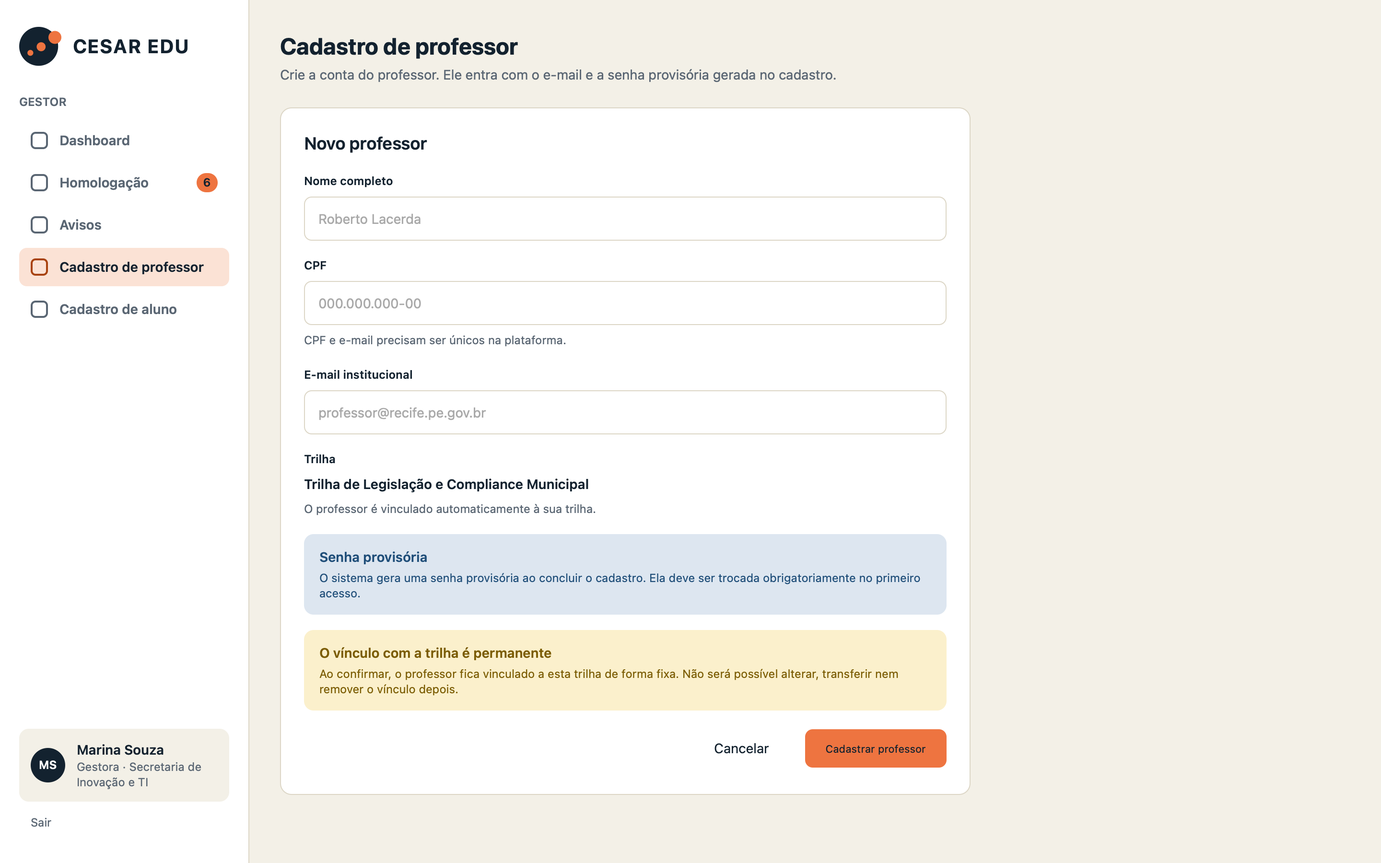
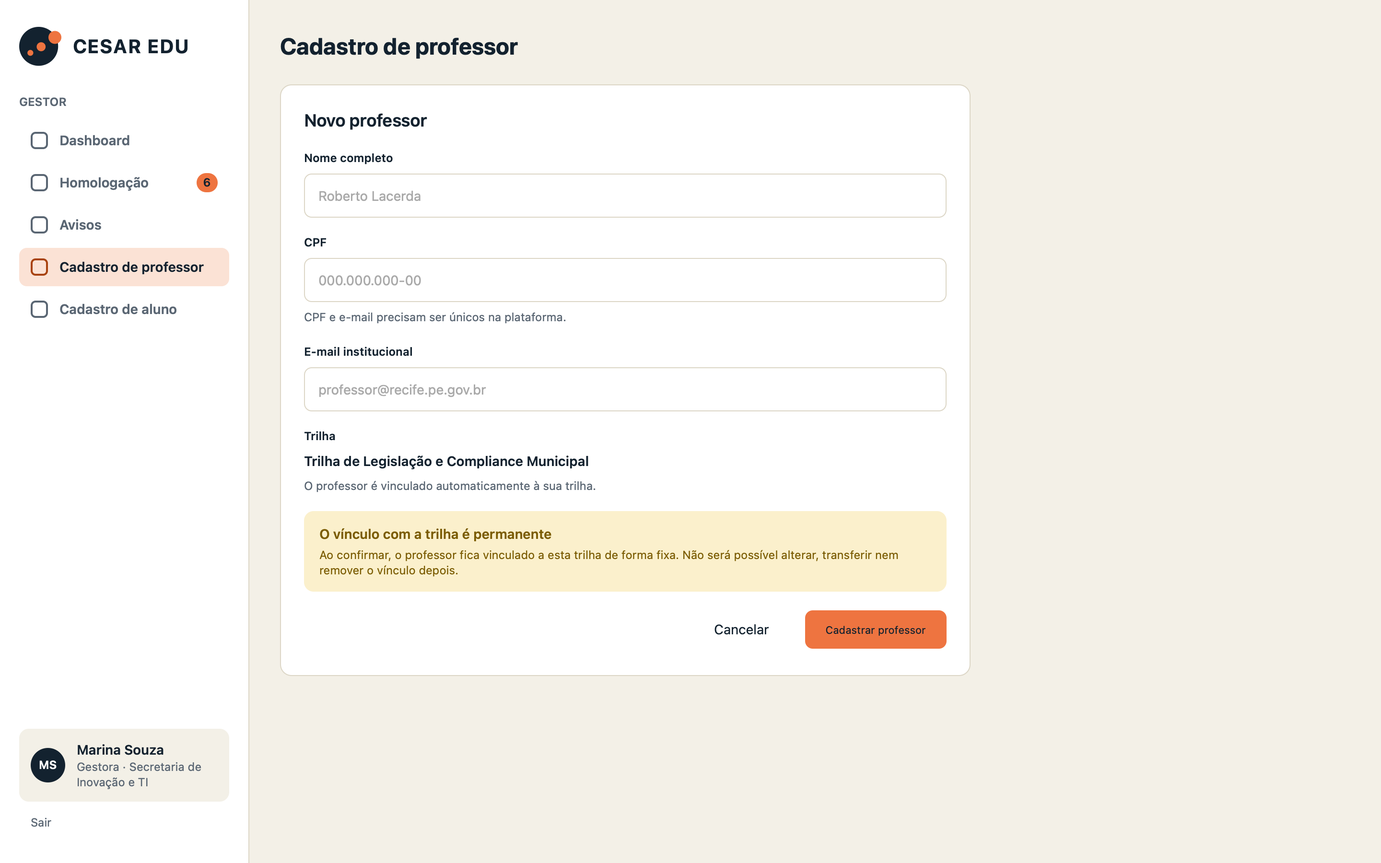
feat: ajustar slides para apresentacao

Changed region(s): [[0.2188, 0.1244, 0.6875, 0.9022], [0.2188, 0.0622, 0.5938, 0.0933]]

diff --git a/slides/apresentacao.html b/slides/apresentacao.html
@@ -115,7 +115,7 @@
   .col{top:50px}
   .col h3{padding-bottom:18px}
   .col ul{margin-top:18px}
-  .col.e ul.two{columns:2;column-gap:16px;font-size:16px;line-height:29px;padding-left:18px}
+  .col.e ul.many{font-size:20px;line-height:32px}
   .col.e.wide{left:100px;width:470px}
   .col.r.tight{left:660px;width:540px}
   .col.r li{margin-bottom:11px}
@@ -133,6 +133,14 @@
   .cont .col.r li span{font-size:22px;line-height:27px}
   .cont .col.r li small{font-size:16px;line-height:21px}
   .cont .col h3{font-size:0;padding:0;border:0;display:none}
+  .sub .pill{font-size:19px;line-height:23px;text-align:center;padding:0 26px}
+  .core .logo-core{background:var(--creme);flex-direction:column;gap:14px;font-size:0}
+  .core .logo-core svg{width:190px}
+  .core .logo-core span{font-size:30px;font-weight:800;letter-spacing:.04em;color:var(--navy);line-height:1}
+  .col.r.compact li{margin-bottom:9px}
+  .col.r.compact li span{font-size:19px;line-height:24px}
+  .col.r.compact li small{font-size:14.5px;line-height:19px;margin-top:1px}
+  .col.r.compact li em{margin-top:2px}
   .cap b{color:var(--navy)}
   .cont .col.r.c0{left:130px;width:1040px;top:56px}
   .cont .col.r.c0 li{margin-bottom:34px;gap:18px}
@@ -162,30 +170,30 @@
   </section>
 <section class="slide light sub">
     <h2>Subdomínios</h2>
-    <div class="pill l" style="top:249px">Cadastros e Acesso</div>
-    <div class="pill l" style="top:371px">Cursos e Conteúdo</div>
-    <div class="pill l" style="top:511px">Provas e Avaliações</div>
-    <div class="core"><div>CESAR<br>EDU</div></div>
-    <div class="pill r" style="top:249px">Aprendizagem do Servidor</div>
-    <div class="pill r" style="top:371px">Comunicação</div>
-    <div class="pill r" style="top:511px">Gestão e Indicadores</div>
+    <div class="pill l" style="top:249px">1. Gerenciamento e Permissões da Plataforma</div>
+    <div class="pill l" style="top:371px">2. Gestão de Cursos</div>
+    <div class="pill l" style="top:511px">3. Provas e Avaliações</div>
+    <div class="core"><div class="logo-core"><svg viewBox="0 0 600 555"><circle cx="277" cy="277" r="277" fill="#13222F"/><circle cx="508" cy="150" r="92" fill="#EE7440"/><circle cx="312" cy="283" r="64" fill="#EE7440"/><circle cx="159" cy="370" r="42" fill="#EE7440"/></svg><span>CESAR EDU</span></div></div>
+    <div class="pill r" style="top:249px">4. Aprendizagem Contínua do Servidor (Estudante)</div>
+    <div class="pill r" style="top:371px">5. Comunicação Assíncrona</div>
+    <div class="pill r" style="top:511px">6. Dashboard de Gestão</div>
   </section>
 <section class="slide dark div" data-f="1">
   <div class="num">01</div>
-  <div class="box"><h2>Cadastro de professores da trilha</h2>
+  <div class="box"><h2>Cadastro de alunos e professores da trilha</h2>
     <div style="margin-top:30px"><span class="chip perfil" style="margin-top:0">Gestor</span><span class="chip facil" style="margin-top:0">Fácil</span></div>
     <div class="own">Responsável: <b>Eric Albuquerque</b></div></div>
 </section>
 <section class="slide story" data-f="1">
-  <div class="top" style="font-size:29px"><b>Como</b> <span>gestor da trilha</span><br><b>Quero</b> <span>cadastrar professores e vinculá-los à minha trilha</span><br><b>Para</b> <span>que possam criar cursos com acesso seguro desde o 1º login</span></div>
+  <div class="top" style="font-size:32px"><b>Como</b> <span>gestor da trilha</span><br><b>Quero</b> <span>cadastrar alunos e professores na minha trilha</span><br><b>Para</b> <span>que cada um acesse a plataforma e a trilha certa</span></div>
   <div class="bot">
-    <div class="col e"><h3><i></i>Envolve</h3><ul><li>Gestor</li><li>Professor</li><li>TrilhaDeAprendizagem</li><li>VinculoProfessorTrilha</li><li>Usuario</li></ul></div>
-    <div class="col r"><h3><i></i>Regras de Negócio</h3><ul><li><em class="baixa">BAIXA</em><span>RN 1 · Permissão exclusiva do gestor da trilha<small>Somente gestores ativos cadastram e vinculam professores à sua trilha.</small></span></li><li><em class="baixa">BAIXA</em><span>RN 2 · Unicidade de CPF e e-mail<small>Bloqueia cadastro com CPF ou e-mail já existente em qualquer perfil.</small></span></li><li><em class="baixa">BAIXA</em><span>RN 3 · Credencial provisória e primeiro acesso<small>Gera senha provisória e exige uma nova senha no primeiro login.</small></span></li><li><em class="media">MÉDIA</em><span>RN 4 · Atribuição fixa e irrevogável à trilha<small>O vínculo professor–trilha é permanente: não pode ser alterado nem removido.</small></span></li></ul></div>
+    <div class="col e"><h3><i></i>Envolve</h3><ul><li>Gestor</li><li>Professor</li><li>TrilhaDeAprendizagem</li><li>VinculoProfessorTrilha</li><li>Servidor/Aluno</li></ul></div>
+    <div class="col r"><h3><i></i>Regras de Negócio</h3><ul><li><em class="baixa">BAIXA</em><span>RN 1 · Permissão exclusiva do gestor da trilha<small>Somente gestores ativos cadastram e vinculam professores à sua trilha.</small></span></li><li><em class="baixa">BAIXA</em><span>RN 2 · Unicidade de CPF e e-mail<small>Bloqueia cadastro com CPF ou e-mail já existente em qualquer perfil.</small></span></li><li><em class="media">MÉDIA</em><span>RN 3 · Atribuição fixa e irrevogável à trilha<small>O vínculo professor–trilha é permanente: não pode ser alterado nem removido.</small></span></li></ul></div>
   </div>
 </section>
-<section class="slide shot"><div class="frame f1"><img src="img/e2-form.png" alt="Gestor · Cadastro de professor: nome, CPF, e-mail e trilha com vínculo permanente (RN 1, RN 4)"></div><div class="cap">Gestor · Cadastro de professor: nome, CPF, e-mail e trilha com vínculo permanente (RN 1, RN 4)</div></section>
-<section class="slide shot"><div class="lab" style="left:30px">E-mail ou CPF já cadastrado é bloqueado (RN 2)</div><div class="lab" style="left:650px">Conta criada com senha provisória (RN 3)</div><div class="frame f2a"><img src="img/e2-erro.png" alt="E-mail ou CPF já cadastrado é bloqueado (RN 2)"></div><div class="frame f2b"><img src="img/e2-ok.png" alt="Conta criada com senha provisória (RN 3)"></div></section>
-<section class="slide shot"><div class="frame f1"><img src="img/e2-aluno.png" alt="Tela complementar · Cadastro de aluno (servidor) pelo gestor, na mesma lógica de conta provisória"></div><div class="cap">Tela complementar · Cadastro de aluno (servidor) pelo gestor, na mesma lógica de conta provisória</div></section>
+<section class="slide shot"><div class="frame f1"><img src="img/e2-form.png" alt="Gestor · Cadastro de professor: nome, CPF, e-mail e trilha com vínculo permanente (RN 1, RN 3)"></div><div class="cap">Gestor · Cadastro de professor: nome, CPF, e-mail e trilha com vínculo permanente (RN 1, RN 3)</div></section>
+<section class="slide shot"><div class="lab" style="left:30px">E-mail ou CPF já cadastrado é bloqueado (RN 2)</div><div class="lab" style="left:650px">Conta criada e vinculada de forma permanente à trilha (RN 3)</div><div class="frame f2a"><img src="img/e2-erro.png" alt="E-mail ou CPF já cadastrado é bloqueado (RN 2)"></div><div class="frame f2b"><img src="img/e2-ok.png" alt="Conta criada e vinculada de forma permanente à trilha (RN 3)"></div></section>
+<section class="slide shot"><div class="frame f1"><img src="img/e2-aluno.png" alt="Cadastro de aluno (servidor) pelo gestor, na mesma trilha"></div><div class="cap">Cadastro de aluno (servidor) pelo gestor, na mesma trilha</div></section>
 <section class="slide dark div" data-f="2">
   <div class="num">02</div>
   <div class="box"><h2>Avisos e notificações do gestor</h2>
@@ -196,15 +204,12 @@
   <div class="top" style="font-size:32px"><b>Como</b> <span>gestor da trilha</span><br><b>Quero</b> <span>publicar e gerenciar avisos para os alunos da trilha</span><br><b>Para</b> <span>manter a turma informada sobre prazos e orientações</span></div>
   <div class="bot">
     <div class="col e"><h3><i></i>Envolve</h3><ul><li>Gestor</li><li>Aluno</li><li>TrilhaDeAprendizagem</li><li>Notificacao</li></ul></div>
-    <div class="col r"><h3><i></i>Regras de Negócio</h3><ul><li><em class="baixa">BAIXA</em><span>RN 1 · Gestão restrita ao gestor da trilha<small>Só o gestor responsável cria, edita ou exclui avisos da trilha.</small></span></li><li><em class="baixa">BAIXA</em><span>RN 2 · Validação de conteúdo não vazio<small>Aviso em branco ou só com espaços não é publicado (máx. 2.000 caracteres).</small></span></li><li><em class="media">MÉDIA</em><span>RN 3 · Feed restrito aos alunos da trilha<small>Apenas servidores com vínculo ativo na trilha veem o aviso.</small></span></li></ul></div>
+    <div class="col r compact"><h3><i></i>Regras de Negócio</h3><ul><li><em class="baixa">BAIXA</em><span>RN 1 · Gestão restrita ao gestor da trilha<small>Só o gestor responsável cria, edita ou exclui avisos da trilha.</small></span></li><li><em class="baixa">BAIXA</em><span>RN 2 · Validação de conteúdo não vazio<small>Aviso em branco ou só com espaços não é publicado (máx. 2.000 caracteres).</small></span></li><li><em class="media">MÉDIA</em><span>RN 3 · Feed restrito aos alunos da trilha<small>Apenas servidores com vínculo ativo na trilha veem o aviso.</small></span></li><li><em class="media">MÉDIA</em><span>RN 4 · Edição pelo autor e sinal de &quot;editado&quot;<small>Ao editar, o feed é atualizado e exibe &quot;editado&quot; com a data.</small></span></li><li><em class="baixa">BAIXA</em><span>RN 5 · Exclusão de mensagem do feed<small>Excluir remove o aviso da listagem dos alunos.</small></span></li></ul></div>
   </div>
-</section>
-<section class="slide cont" data-f="2">
-  <div class="top"><h2>Regras de Negócio · continuação</h2><p>02 · Avisos e notificações do gestor</p></div>
-  <div class="bot"><div class="col r c0"><ul><li><em class="media">MÉDIA</em><span>RN 4 · Edição pelo autor e sinal de &quot;editado&quot;<small>Ao editar, o feed é atualizado e exibe &quot;editado&quot; com a data.</small></span></li><li><em class="baixa">BAIXA</em><span>RN 5 · Exclusão de mensagem do feed<small>Excluir remove o aviso da listagem dos alunos.</small></span></li></ul></div></div>
 </section>
 <section class="slide shot"><div class="frame f1"><img src="img/m3-feed.png" alt="Gestor · Feed de avisos: criar aviso (RN 1, RN 2) e feed da trilha com selo &quot;editado&quot; (RN 4)"></div><div class="cap">Gestor · Feed de avisos: criar aviso (RN 1, RN 2) e feed da trilha com selo &quot;editado&quot; (RN 4)</div></section>
 <section class="slide shot"><div class="lab" style="left:30px">Editar aviso (RN 4)</div><div class="lab" style="left:650px">Excluir aviso do feed (RN 5)</div><div class="frame f2a"><img src="img/m3-editar.png" alt="Editar aviso (RN 4)"></div><div class="frame f2b"><img src="img/m3-excluir.png" alt="Excluir aviso do feed (RN 5)"></div></section>
+<section class="slide shot"><div class="frame f1"><img src="img/m3-servidor.png" alt="Servidor · Avisos do gestor da trilha, com selo &quot;editado&quot; (RN 3 e RN 4)"></div><div class="cap">Servidor · Avisos do gestor da trilha, com selo &quot;editado&quot; (RN 3 e RN 4)</div></section>
 <section class="slide dark div" data-f="3">
   <div class="num">03</div>
   <div class="box"><h2>Gerenciamento de cursos</h2>
@@ -215,7 +220,7 @@
   <div class="top" style="font-size:32px"><b>Como</b> <span>professor</span><br><b>Quero</b> <span>criar, editar e arquivar os meus cursos</span><br><b>Para</b> <span>organizar o conteúdo que os servidores vão estudar</span></div>
   <div class="bot">
     <div class="col e"><h3><i></i>Envolve</h3><ul><li>Professor</li><li>Servidor</li><li>Curso</li></ul></div>
-    <div class="col r"><h3><i></i>Regras de Negócio</h3><ul><li><em class="baixa">BAIXA</em><span>RN 1 · Criação de curso<small>Campos obrigatórios preenchidos e sempre com um professor responsável.</small></span></li><li><em class="baixa">BAIXA</em><span>RN 2 · Consulta e visualização de cursos<small>Professor lista os próprios cursos; servidor vê os publicados a que tem acesso.</small></span></li><li><em class="baixa">BAIXA</em><span>RN 3 · Atualização de curso<small>Só o professor responsável (ou administrador) edita dados e status.</small></span></li><li><em class="baixa">BAIXA</em><span>RN 4 · Exclusão ou arquivamento<small>Sem histórico, exclui. Com matrículas, progresso ou certificados, arquiva.</small></span></li></ul></div>
+    <div class="col r"><h3><i></i>Regras de Negócio</h3><ul><li><em class="baixa">BAIXA</em><span>RN 1 · Criação de curso<small>Campos obrigatórios preenchidos e sempre com um professor responsável.</small></span></li><li><em class="baixa">BAIXA</em><span>RN 2 · Consulta e visualização de cursos<small>Professor lista os próprios cursos; servidor vê os publicados a que tem acesso.</small></span></li><li><em class="baixa">BAIXA</em><span>RN 3 · Atualização de curso<small>Só o professor responsável (ou administrador) edita dados e status.</small></span></li><li><em class="baixa">BAIXA</em><span>RN 4 · Arquivamento de curso<small>Curso com matrículas, progresso ou certificados é arquivado, preservando o histórico.</small></span></li></ul></div>
   </div>
 </section>
 <section class="slide shot"><div class="frame f1"><img src="img/g1-lista.png" alt="Professor · Meus cursos: situação (Publicado, Rascunho, Arquivado) e alunos (RN 2)"></div><div class="cap">Professor · Meus cursos: situação (Publicado, Rascunho, Arquivado) e alunos (RN 2)</div></section>
@@ -231,7 +236,7 @@
   <div class="top" style="font-size:32px"><b>Como</b> <span>professor</span><br><b>Quero</b> <span>estruturar meu curso em módulos ordenados</span><br><b>Para</b> <span>organizar a sequência de aprendizagem do servidor</span></div>
   <div class="bot">
     <div class="col e"><h3><i></i>Envolve</h3><ul><li>Professor</li><li>Servidor</li><li>Curso</li><li>Módulo</li></ul></div>
-    <div class="col r"><h3><i></i>Regras de Negócio</h3><ul><li><em class="baixa">BAIXA</em><span>RN 1 · Criação de módulo<small>Só em cursos do professor responsável; todo módulo tem um curso associado.</small></span></li><li><em class="baixa">BAIXA</em><span>RN 2 · Consulta e visualização de módulos<small>Professor organiza; servidor vê os módulos do curso na ordem definida.</small></span></li><li><em class="baixa">BAIXA</em><span>RN 3 · Atualização de módulo<small>Edita título, descrição e posição dentro do curso.</small></span></li><li><em class="baixa">BAIXA</em><span>RN 4 · Exclusão de módulo<small>Sem aulas, exclui direto; com aulas, bloqueia ou exige tratamento.</small></span></li></ul></div>
+    <div class="col r"><h3><i></i>Regras de Negócio</h3><ul><li><em class="baixa">BAIXA</em><span>RN 1 · Criação de módulo<small>Só em cursos do professor responsável; todo módulo tem um curso associado.</small></span></li><li><em class="baixa">BAIXA</em><span>RN 2 · Consulta e visualização de módulos<small>Professor organiza; servidor vê os módulos do curso na ordem definida.</small></span></li><li><em class="baixa">BAIXA</em><span>RN 3 · Atualização de módulo<small>Edita o título e a descrição do módulo.</small></span></li><li><em class="baixa">BAIXA</em><span>RN 4 · Exclusão de módulo<small>Sem aulas, exclui direto; com aulas, bloqueia ou exige tratamento.</small></span></li></ul></div>
   </div>
 </section>
 <section class="slide shot"><div class="frame f1"><img src="img/g2-lista.png" alt="Professor · Módulos do curso, em ordem, com carga horária e prova (RN 2)"></div><div class="cap">Professor · Módulos do curso, em ordem, com carga horária e prova (RN 2)</div></section>
@@ -247,10 +252,10 @@
   <div class="top" style="font-size:32px"><b>Como</b> <span>professor</span><br><b>Quero</b> <span>cadastrar e manter as aulas de cada módulo</span><br><b>Para</b> <span>disponibilizar o conteúdo em vídeo aos servidores</span></div>
   <div class="bot">
     <div class="col e"><h3><i></i>Envolve</h3><ul><li>Professor</li><li>Servidor</li><li>Curso</li><li>Módulo</li><li>Aula</li></ul></div>
-    <div class="col r"><h3><i></i>Regras de Negócio</h3><ul><li><em class="baixa">BAIXA</em><span>RN 1 · Criação de aula<small>Toda aula pertence a um módulo existente de um curso do professor.</small></span></li><li><em class="baixa">BAIXA</em><span>RN 2 · Consulta e visualização de aulas<small>Professor consulta; servidor acessa as aulas na ordem do módulo.</small></span></li><li><em class="baixa">BAIXA</em><span>RN 3 · Atualização de aula<small>Altera título, descrição, duração, conteúdo e posição da aula.</small></span></li><li><em class="baixa">BAIXA</em><span>RN 4 · Exclusão de aula<small>Sem progresso, exclui; com histórico, preserva com exclusão lógica ou desativação.</small></span></li></ul></div>
+    <div class="col r"><h3><i></i>Regras de Negócio</h3><ul><li><em class="baixa">BAIXA</em><span>RN 1 · Criação de aula<small>Toda aula pertence a um módulo existente de um curso do professor.</small></span></li><li><em class="baixa">BAIXA</em><span>RN 2 · Consulta e visualização de aulas<small>Professor consulta; servidor acessa as aulas na ordem do módulo.</small></span></li><li><em class="baixa">BAIXA</em><span>RN 3 · Atualização de aula<small>Altera título, descrição, duração e conteúdo da aula.</small></span></li><li><em class="baixa">BAIXA</em><span>RN 4 · Exclusão de aula<small>Sem progresso, exclui; com histórico, preserva com exclusão lógica ou desativação.</small></span></li></ul></div>
   </div>
 </section>
-<section class="slide shot"><div class="frame f1"><img src="img/g3-lista.png" alt="Professor · Aulas do módulo, com posição e duração (RN 2)"></div><div class="cap">Professor · Aulas do módulo, com posição e duração (RN 2)</div></section>
+<section class="slide shot"><div class="frame f1"><img src="img/g3-lista.png" alt="Professor · Aulas do módulo, em ordem e com duração (RN 2)"></div><div class="cap">Professor · Aulas do módulo, em ordem e com duração (RN 2)</div></section>
 <section class="slide shot"><div class="lab" style="left:30px">Criar aula (RN 1)</div><div class="lab" style="left:650px">Editar aula (RN 3)</div><div class="frame f2a"><img src="img/g3-nova.png" alt="Criar aula (RN 1)"></div><div class="frame f2b"><img src="img/g3-editar.png" alt="Editar aula (RN 3)"></div></section>
 <section class="slide shot"><div class="frame f1"><img src="img/g3-excluir.png" alt="Excluir aula remove também materiais e comentários (RN 4)"></div><div class="cap">Excluir aula remove também materiais e comentários (RN 4)</div></section>
 <section class="slide dark div" data-f="6">
@@ -279,12 +284,8 @@
   <div class="top" style="font-size:29px"><b>Como</b> <span>professor do curso</span><br><b>Quero</b> <span>criar e manter a prova de múltipla escolha</span><br><b>Para</b> <span>avaliar o aprendizado com critério de aprovação definido</span></div>
   <div class="bot">
     <div class="col e"><h3><i></i>Envolve</h3><ul><li>Curso</li><li>Prova</li><li>Questão</li><li>Alternativa</li><li>Gabarito</li><li>TentativaDeProva</li></ul></div>
-    <div class="col r"><h3><i></i>Regras de Negócio</h3><ul><li><em class="media">MÉDIA</em><span>RN 1 · Estrutura mínima de questões e alternativas<small>Ao menos 1 questão; cada uma com 2+ alternativas e exatamente 1 correta.</small></span></li><li><em class="baixa">BAIXA</em><span>RN 2 · Limite mínimo da nota de corte<small>O percentual de aprovação deve ser superior a 50%.</small></span></li><li><em class="media">MÉDIA</em><span>RN 3 · Validação contínua na edição<small>Toda alteração revalida as regras antes de salvar.</small></span></li></ul></div>
+    <div class="col r compact"><h3><i></i>Regras de Negócio</h3><ul><li><em class="media">MÉDIA</em><span>RN 1 · Estrutura mínima da prova<small>Mín. 1 questão; cada uma com 2+ alternativas e 1 correta.</small></span></li><li><em class="baixa">BAIXA</em><span>RN 2 · Limite mínimo da nota de corte<small>O percentual de aprovação deve ser superior a 50%.</small></span></li><li><em class="media">MÉDIA</em><span>RN 3 · Validação contínua na edição<small>Toda alteração revalida as regras antes de salvar.</small></span></li><li><em class="media">MÉDIA</em><span>RN 4 · Efeito não retroativo da nota de corte<small>A nova nota vale só para tentativas futuras; resultados passados não mudam.</small></span></li><li><em class="baixa">BAIXA</em><span>RN 5 · Unicidade de prova por curso<small>Uma segunda prova no mesmo curso é bloqueada.</small></span></li><li><em class="baixa">BAIXA</em><span>RN 6 · Gestão restrita ao professor do curso<small>Só o professor responsável cria, vê, edita ou exclui a prova.</small></span></li></ul></div>
   </div>
-</section>
-<section class="slide cont" data-f="7">
-  <div class="top"><h2>Regras de Negócio · continuação</h2><p>07 · Gestão de provas de avaliação</p></div>
-  <div class="bot"><div class="col r c0"><ul><li><em class="media">MÉDIA</em><span>RN 4 · Efeito não retroativo da nota de corte<small>A nova nota vale só para tentativas futuras; resultados passados não mudam.</small></span></li><li><em class="baixa">BAIXA</em><span>RN 5 · Unicidade de prova por curso<small>Uma segunda prova no mesmo curso é bloqueada.</small></span></li><li><em class="baixa">BAIXA</em><span>RN 6 · Gestão restrita ao professor do curso<small>Só o professor responsável cria, vê, edita ou exclui a prova.</small></span></li></ul></div></div>
 </section>
 <section class="slide shot"><div class="frame f1"><img src="img/m1-prova.png" alt="Professor · Prova do curso: gabarito, critério de aprovação (RN 2) e desempenho dos alunos"></div><div class="cap">Professor · Prova do curso: gabarito, critério de aprovação (RN 2) e desempenho dos alunos</div></section>
 <section class="slide shot"><div class="lab" style="left:30px">Criar prova: regras conferidas em tempo real (RN 1, RN 2)</div><div class="lab" style="left:650px">Editar prova revalida as regras (RN 3)</div><div class="frame f2a"><img src="img/m1-nova.png" alt="Criar prova: regras conferidas em tempo real (RN 1, RN 2)"></div><div class="frame f2b"><img src="img/m1-editar.png" alt="Editar prova revalida as regras (RN 3)"></div></section>
@@ -292,21 +293,21 @@
 <section class="slide shot"><div class="lab" style="left:30px">Servidor · Trilha e cursos publicados (Cursos, RN 2)</div><div class="lab" style="left:650px">Servidor · Módulos e aulas do curso (Módulos e Aulas, RN 2)</div><div class="frame f2a"><img src="img/s-trilha.png" alt="Servidor · Trilha e cursos publicados (Cursos, RN 2)"></div><div class="frame f2b"><img src="img/s-curso.png" alt="Servidor · Módulos e aulas do curso (Módulos e Aulas, RN 2)"></div><div class="cap">Consulta pelo servidor das funcionalidades 03 a 06 (cursos, módulos, aulas e materiais)</div></section>
 <section class="slide dark div" data-f="8">
   <div class="num">08</div>
-  <div class="box"><h2>Progresso e consumo de aulas</h2>
+  <div class="box"><h2>Consumo de aulas e provas</h2>
     <div style="margin-top:30px"><span class="chip perfil" style="margin-top:0">Servidor</span><span class="chip media" style="margin-top:0">Média</span></div>
     <div class="own">Responsável: <b>Amanda Luz</b></div></div>
 </section>
 <section class="slide story" data-f="8">
-  <div class="top" style="font-size:32px"><b>Como</b> <span>aluno (servidor público municipal)</span><br><b>Quero</b> <span>assistir às aulas e marcar meu progresso no curso</span><br><b>Para</b> <span>acompanhar minha evolução e manter meu streak</span></div>
+  <div class="top" style="font-size:32px"><b>Como</b> <span>aluno (servidor público municipal)</span><br><b>Quero</b> <span>assistir às aulas e realizar as provas dos cursos</span><br><b>Para</b> <span>acompanhar minha evolução e meu desempenho no curso</span></div>
   <div class="bot">
-    <div class="col e"><h3><i></i>Envolve</h3><ul><li>Aluno</li><li>Curso</li><li>Aula</li><li>Matricula</li><li>ProgressoAula</li><li>LogEstudo</li></ul></div>
-    <div class="col r"><h3><i></i>Regras de Negócio</h3><ul><li><em class="baixa">BAIXA</em><span>RN 1 · Matrícula ativa obrigatória<small>Só acessa aulas e registra progresso quem tem matrícula ativa no curso.</small></span></li><li><em class="media">MÉDIA</em><span>RN 2 · Atualização de progresso<small>Recalcula o % do curso a cada aula; em 100%, a matrícula é concluída.</small></span></li><li><em class="media">MÉDIA</em><span>RN 3 · Log diário e contagem de streak<small>A primeira aula do dia registra o log e soma ao streak de estudos.</small></span></li></ul></div>
+    <div class="col e"><h3><i></i>Envolve</h3><ul><li>Aluno</li><li>TrilhaDeAprendizagem</li><li>Curso</li><li>Aula</li><li>Matricula</li><li>ProgressoAula</li><li>Prova</li><li>TentativaDeProva</li></ul></div>
+    <div class="col r"><h3><i></i>Regras de Negócio</h3><ul><li><em class="baixa">BAIXA</em><span>RN 1 · Matrícula ativa obrigatória<small>Só acessa aulas e registra progresso quem tem matrícula ativa no curso.</small></span></li><li><em class="media">MÉDIA</em><span>RN 2 · Atualização de progresso<small>Recalcula o % do curso a cada aula; em 100%, a matrícula é concluída.</small></span></li><li><em class="baixa">BAIXA</em><span>RN 3 · Acesso restrito aos cursos da trilha<small>O aluno só consome os cursos da trilha em que está matriculado.</small></span></li><li><em class="baixa">BAIXA</em><span>RN 4 · Aprovação encerra a prova<small>Aluno já aprovado na prova do curso não pode refazê-la.</small></span></li></ul></div>
   </div>
 </section>
-<section class="slide shot"><div class="frame f1"><img src="img/f2-aula.png" alt="Servidor · Aula: vídeo, materiais, progresso do curso (68%) e &quot;Marcar como concluída&quot;"></div><div class="cap">Servidor · Aula: vídeo, materiais, progresso do curso (68%) e &quot;Marcar como concluída&quot;</div></section>
-<section class="slide shot"><div class="lab" style="left:30px">Iniciar o curso exige matrícula ativa (RN 1)</div><div class="lab" style="left:650px">Aula concluída: progresso e streak do dia (RN 2, RN 3)</div><div class="frame f2a"><img src="img/f2-curso.png" alt="Iniciar o curso exige matrícula ativa (RN 1)"></div><div class="frame f2b"><img src="img/f2-concluida.png" alt="Aula concluída: progresso e streak do dia (RN 2, RN 3)"></div></section>
-<section class="slide shot"><div class="lab" style="left:30px">Servidor · Tentativas e nota de corte fixada (RN 4)</div><div class="lab" style="left:650px">Servidor · Tentativa em andamento</div><div class="frame f2a"><img src="img/m1-s-prova.png" alt="Servidor · Tentativas e nota de corte fixada (RN 4)"></div><div class="frame f2b"><img src="img/m1-s-fazer.png" alt="Servidor · Tentativa em andamento"></div><div class="cap">Continuação da funcionalidade 07 · Prova do curso na visão do servidor</div></section>
-<section class="slide shot"><div class="frame f1"><img src="img/m1-s-resultado.png" alt="Servidor · Resultado da tentativa, com a nota de corte vigente na hora da prova (RN 4)"></div><div class="cap">Servidor · Resultado da tentativa, com a nota de corte vigente na hora da prova (RN 4)</div></section>
+<section class="slide shot"><div class="frame f1"><img src="img/f2-aula.png" alt="Servidor · Consumo de aulas: vídeo, materiais, progresso do curso (68%) e &quot;Marcar como concluída&quot;"></div><div class="cap">Servidor · Consumo de aulas: vídeo, materiais, progresso do curso (68%) e &quot;Marcar como concluída&quot;</div></section>
+<section class="slide shot"><div class="lab" style="left:30px">Iniciar o curso exige matrícula ativa (RN 1)</div><div class="lab" style="left:650px">Aula concluída: progresso do curso atualizado (RN 2)</div><div class="frame f2a"><img src="img/f2-curso.png" alt="Iniciar o curso exige matrícula ativa (RN 1)"></div><div class="frame f2b"><img src="img/f2-concluida.png" alt="Aula concluída: progresso do curso atualizado (RN 2)"></div></section>
+<section class="slide shot"><div class="lab" style="left:30px">Consumo de provas · tentativas e nota de corte fixada</div><div class="lab" style="left:650px">Consumo de provas · tentativa em andamento</div><div class="frame f2a"><img src="img/m1-s-prova.png" alt="Consumo de provas · tentativas e nota de corte fixada"></div><div class="frame f2b"><img src="img/m1-s-fazer.png" alt="Consumo de provas · tentativa em andamento"></div><div class="cap">Servidor · Prova do curso (regra de nota de corte não retroativa: funcionalidade 07, RN 4)</div></section>
+<section class="slide shot"><div class="frame f1"><img src="img/m1-s-resultado.png" alt="Servidor · Resultado da tentativa, com a nota de corte vigente na hora da prova (funcionalidade 07, RN 4)"></div><div class="cap">Servidor · Resultado da tentativa, com a nota de corte vigente na hora da prova (funcionalidade 07, RN 4)</div></section>
 <section class="slide dark div" data-f="9">
   <div class="num">09</div>
   <div class="box"><h2>Comentários, dúvidas e respostas</h2>
@@ -317,12 +318,8 @@
   <div class="top" style="font-size:32px"><b>Como</b> <span>aluno matriculado ou professor do curso</span><br><b>Quero</b> <span>comentar e responder dúvidas em cada aula</span><br><b>Para</b> <span>trocar conhecimento com a turma e o professor</span></div>
   <div class="bot">
     <div class="col e"><h3><i></i>Envolve</h3><ul><li>Aluno</li><li>Professor</li><li>Curso</li><li>Aula</li><li>Matrícula</li><li>Comentário (pai e respostas)</li></ul></div>
-    <div class="col r"><h3><i></i>Regras de Negócio</h3><ul><li><em class="media">MÉDIA</em><span>RN 1 · Permissão de acesso e interação<small>Só publica o professor do curso ou aluno com matrícula ativa.</small></span></li><li><em class="baixa">BAIXA</em><span>RN 2 · Validação de conteúdo não vazio<small>Texto de 1 a 1.000 caracteres válidos; sem envio em branco.</small></span></li><li><em class="baixa">BAIXA</em><span>RN 3 · Destaque e identificação do professor<small>Respostas do professor ganham selo &quot;Professor&quot; e fundo destacado.</small></span></li></ul></div>
+    <div class="col r compact"><h3><i></i>Regras de Negócio</h3><ul><li><em class="media">MÉDIA</em><span>RN 1 · Permissão de acesso e interação<small>Só publica o professor do curso ou aluno com matrícula ativa.</small></span></li><li><em class="baixa">BAIXA</em><span>RN 2 · Validação de conteúdo não vazio<small>Texto de 1 a 1.000 caracteres válidos; sem envio em branco.</small></span></li><li><em class="baixa">BAIXA</em><span>RN 3 · Destaque e identificação do professor<small>Respostas do professor ganham selo &quot;Professor&quot; e fundo destacado.</small></span></li><li><em class="baixa">BAIXA</em><span>RN 4 · Edição exclusiva do autor<small>Só o autor altera a própria mensagem; editadas exibem &quot;editado&quot;.</small></span></li><li><em class="media">MÉDIA</em><span>RN 5 · Exclusão em cascata<small>Autor exclui o que é seu; apagar o comentário pai remove as respostas.</small></span></li></ul></div>
   </div>
-</section>
-<section class="slide cont" data-f="9">
-  <div class="top"><h2>Regras de Negócio · continuação</h2><p>09 · Comentários, dúvidas e respostas</p></div>
-  <div class="bot"><div class="col r c0"><ul><li><em class="baixa">BAIXA</em><span>RN 4 · Edição exclusiva do autor<small>Só o autor altera a própria mensagem; editadas exibem &quot;editado&quot;.</small></span></li><li><em class="media">MÉDIA</em><span>RN 5 · Exclusão em cascata<small>Autor exclui o que é seu; apagar o comentário pai remove as respostas.</small></span></li></ul></div></div>
 </section>
 <section class="slide shot"><div class="frame f1"><img src="img/m2-aluno.png" alt="Servidor · Comentários da aula, com resposta do professor em destaque (RN 3)"></div><div class="cap">Servidor · Comentários da aula, com resposta do professor em destaque (RN 3)</div></section>
 <section class="slide shot"><div class="lab" style="left:30px">Editar o próprio comentário (RN 4)</div><div class="lab" style="left:650px">Excluir o próprio comentário e respostas (RN 5)</div><div class="frame f2a"><img src="img/m2-editar.png" alt="Editar o próprio comentário (RN 4)"></div><div class="frame f2b"><img src="img/m2-excluir.png" alt="Excluir o próprio comentário e respostas (RN 5)"></div></section>
@@ -355,9 +352,7 @@
     <div class="col r"><h3><i></i>Regras de Negócio</h3><ul><li><em class="baixa">BAIXA</em><span>RN 1 · Unicidade de solicitação<small>Sem pedido pendente ou matrícula ativa na mesma trilha.</small></span></li><li><em class="baixa">BAIXA</em><span>RN 2 · Validação de justificativa<small>Justificativa obrigatória, de 10 a 500 caracteres válidos.</small></span></li><li><em class="baixa">BAIXA</em><span>RN 3 · Notificação ao gestor da trilha<small>O gestor da secretaria é notificado automaticamente.</small></span></li></ul></div>
   </div>
 </section>
-<section class="slide shot"><div class="frame f1"><img src="img/f1-solicitar.png" alt="Servidor · Solicitar acesso: justificativa (RN 2) e histórico de pedidos (RN 1)"></div><div class="cap">Servidor · Solicitar acesso: justificativa (RN 2) e histórico de pedidos (RN 1)</div></section>
 <section class="slide shot"><div class="lab" style="left:30px">Pedido a partir do catálogo de trilhas</div><div class="lab" style="left:650px">Gestor notificado (RN 3)</div><div class="frame f2a"><img src="img/f1-trilha-modal.png" alt="Pedido a partir do catálogo de trilhas"></div><div class="frame f2b"><img src="img/f1-enviado.png" alt="Gestor notificado (RN 3)"></div></section>
-<section class="slide shot"><div class="frame f1"><img src="img/m3-servidor.png" alt="Servidor · Avisos do gestor da trilha, com selo &quot;editado&quot; (funcionalidade 02, RN 3 e RN 4)"></div><div class="cap">Servidor · Avisos do gestor da trilha, com selo &quot;editado&quot; (funcionalidade 02, RN 3 e RN 4)</div></section>
 <section class="slide dark div" data-f="12">
   <div class="num">12</div>
   <div class="box"><h2>Homologação de solicitações de acesso</h2>
@@ -383,17 +378,17 @@
 <section class="slide story" data-f="13">
   <div class="top" style="font-size:32px"><b>Como</b> <span>gestor da trilha</span><br><b>Quero</b> <span>acompanhar indicadores e filtros da minha equipe</span><br><b>Para</b> <span>identificar gargalos e agir sobre o engajamento</span></div>
   <div class="bot">
-    <div class="col e wide"><h3><i></i>Envolve</h3><ul class="two"><li>Gestor</li><li>TrilhaDeAprendizagem</li><li>Curso</li><li>Servidor</li><li>MatriculaTrilha</li><li>MatriculaCurso</li><li>AvaliacaoQuiz</li><li>PesquisaSatisfacao</li><li>DashboardConfigGestor</li><li>DashboardLogConsulta</li></ul></div>
-    <div class="col r tight"><h3><i></i>Regras de Negócio</h3><ul><li><em class="baixa">BAIXA</em><span>RN 1 · Escopo restrito ao gestor responsável<small>Vê só dados das trilhas e servidores sob sua responsabilidade.</small></span></li><li><em class="media">MÉDIA</em><span>RN 2 · Filtros e visualizações salvas<small>Salva filtros, ordenação e layout para os próximos acessos.</small></span></li><li><em class="baixa">BAIXA</em><span>RN 3 · Auditoria de consultas<small>Cada consulta grava parâmetros, usuário e tempo de resposta.</small></span></li><li><em class="media">MÉDIA</em><span>RN 4 · Progresso coletivo e meta da secretaria<small>Horas concluídas no mês comparadas à meta definida pela liderança.</small></span></li></ul></div>
+    <div class="col e"><h3><i></i>Envolve</h3><ul class="many"><li>Gestor</li><li>TrilhaDeAprendizagem</li><li>Curso</li><li>Servidor</li><li>MatriculaTrilha</li><li>MatriculaCurso</li><li>TentativaProva</li><li>PesquisaSatisfacao</li><li>DashboardConfigGestor</li><li>DashboardLogConsulta</li></ul></div>
+    <div class="col r"><h3><i></i>Regras de Negócio</h3><ul><li><em class="baixa">BAIXA</em><span>RN 1 · Escopo restrito ao gestor responsável<small>Vê só dados das trilhas e servidores sob sua responsabilidade.</small></span></li><li><em class="media">MÉDIA</em><span>RN 2 · Filtros e visualizações salvas<small>Salva filtros, ordenação e layout para os próximos acessos.</small></span></li><li><em class="baixa">BAIXA</em><span>RN 3 · Auditoria de consultas<small>Cada consulta grava parâmetros, usuário e tempo de resposta.</small></span></li><li><em class="media">MÉDIA</em><span>RN 4 · Progresso coletivo e meta da secretaria<small>Horas concluídas no mês comparadas à meta definida pela liderança.</small></span></li></ul></div>
   </div>
 </section>
 <section class="slide cont" data-f="13">
   <div class="top"><h2>Regras de Negócio · continuação</h2><p>13 · Dashboard analítico do gestor</p></div>
-  <div class="bot"><div class="col r c1"><ul><li><em class="media">MÉDIA</em><span>RN 5 · Acompanhamento individual da equipe<small>Tabela por servidor: status, avanço na trilha e nota acumulada.</small></span></li><li><em class="baixa">BAIXA</em><span>RN 6 · Fila de homologação em tempo real<small>Contagem e lista de pedidos pendentes, com atalho para aprovação.</small></span></li><li><em class="media">MÉDIA</em><span>RN 7 · Alerta de estagnação<small>Sinaliza servidores há mais de 15 dias sem acesso ou progresso.</small></span></li></ul></div><div class="col r c2"><ul><li><em class="alta">ALTA</em><span>RN 8 · Aprovação na primeira tentativa<small>% de servidores que atingem a nota mínima já na 1ª tentativa.</small></span></li><li><em class="media">MÉDIA</em><span>RN 9 · Média de notas e índice de reprovação<small>Média por curso e % de tentativas abaixo da nota mínima.</small></span></li><li><em class="alta">ALTA</em><span>RN 10 · Evasão e comparativo entre trilhas<small>Abandono de cursos e indicadores comparados entre trilhas.</small></span></li></ul></div></div>
+  <div class="bot"><div class="col r c0"><ul><li><em class="media">MÉDIA</em><span>RN 5 · Acompanhamento individual da equipe<small>Tabela por servidor: status, avanço na trilha e nota acumulada.</small></span></li><li><em class="alta">ALTA</em><span>RN 6 · Aprovação na primeira tentativa<small>% de servidores que atingem a nota mínima já na 1ª tentativa.</small></span></li><li><em class="media">MÉDIA</em><span>RN 7 · Média de notas e índice de reprovação<small>Média por curso e % de tentativas abaixo da nota mínima.</small></span></li><li><em class="alta">ALTA</em><span>RN 8 · Evasão e comparativo entre trilhas<small>Abandono de cursos e indicadores comparados entre trilhas.</small></span></li></ul></div></div>
 </section>
-<section class="slide shot"><div class="frame f1"><img src="img/e1-topo.png" alt="Gestor · Dashboard: filtros, indicadores (aprovação na 1ª tentativa, evasão) e meta mensal de horas (RN 2, RN 4, RN 8, RN 10)"></div><div class="cap">Gestor · Dashboard: filtros, indicadores (aprovação na 1ª tentativa, evasão) e meta mensal de horas (RN 2, RN 4, RN 8, RN 10)</div></section>
+<section class="slide shot"><div class="frame f1"><img src="img/e1-topo.png" alt="Gestor · Dashboard: filtros, indicadores (aprovação na 1ª tentativa, evasão) e meta mensal de horas (RN 2, RN 4, RN 6, RN 8)"></div><div class="cap">Gestor · Dashboard: filtros, indicadores (aprovação na 1ª tentativa, evasão) e meta mensal de horas (RN 2, RN 4, RN 6, RN 8)</div></section>
 <section class="slide shot"><div class="frame f1"><img src="img/e1-servidores.png" alt="Acompanhamento individual dos servidores: status, avanço, nota e último acesso (RN 5)"></div><div class="cap">Acompanhamento individual dos servidores: status, avanço, nota e último acesso (RN 5)</div></section>
-<section class="slide shot"><div class="frame f1"><img src="img/e1-cursos.png" alt="Média de notas e índice de reprovação por curso (RN 9)"></div><div class="cap">Média de notas e índice de reprovação por curso (RN 9)</div></section>
+<section class="slide shot"><div class="frame f1"><img src="img/e1-cursos.png" alt="Média de notas e índice de reprovação por curso (RN 7)"></div><div class="cap">Média de notas e índice de reprovação por curso (RN 7)</div></section>
 <section class="slide shot"><div class="lab" style="left:30px">Salvar visualização (RN 2)</div><div class="lab" style="left:650px">Auditoria de consultas do dashboard (RN 3)</div><div class="frame f2a"><img src="img/e1-salvar.png" alt="Salvar visualização (RN 2)"></div><div class="frame f2b"><img src="img/e1-auditoria.png" alt="Auditoria de consultas do dashboard (RN 3)"></div></section>
 <section class="slide dark end">
     <h1>Agradecemos<br>a atenção!</h1>
